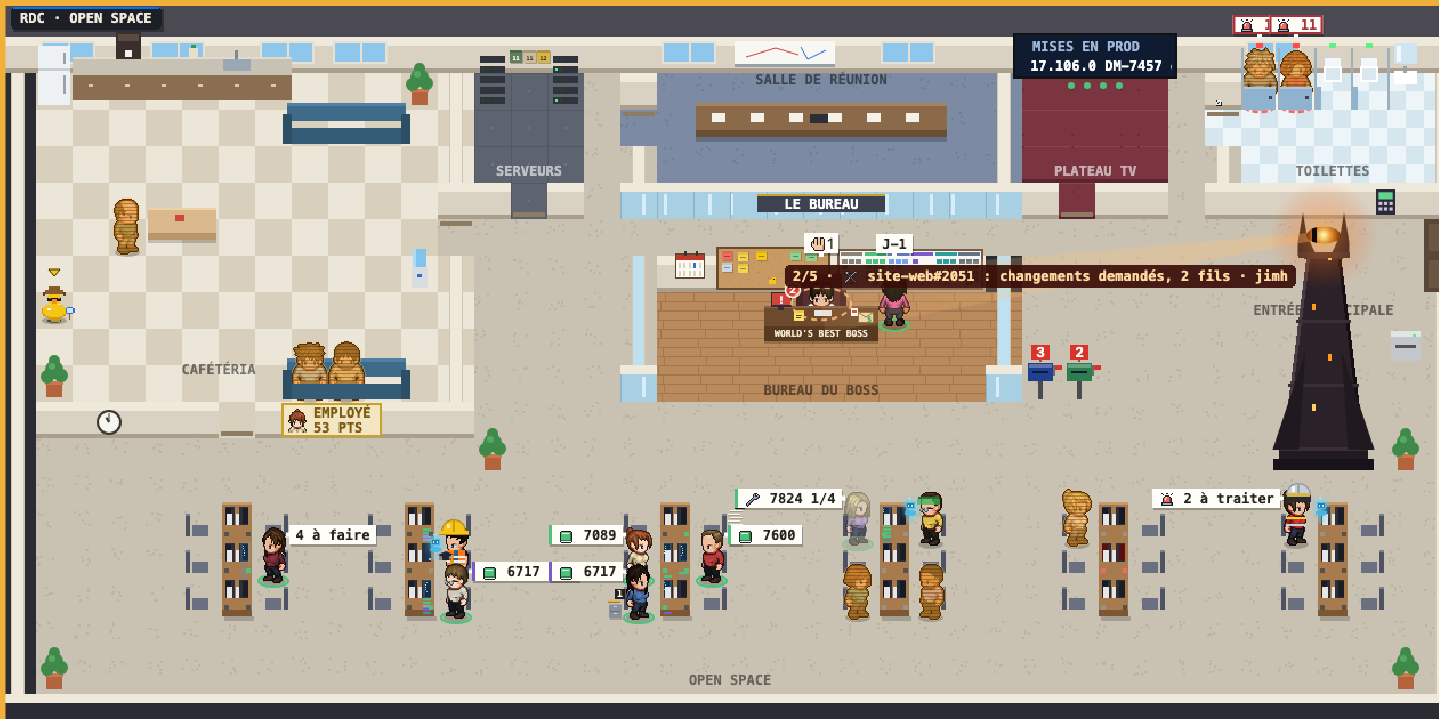
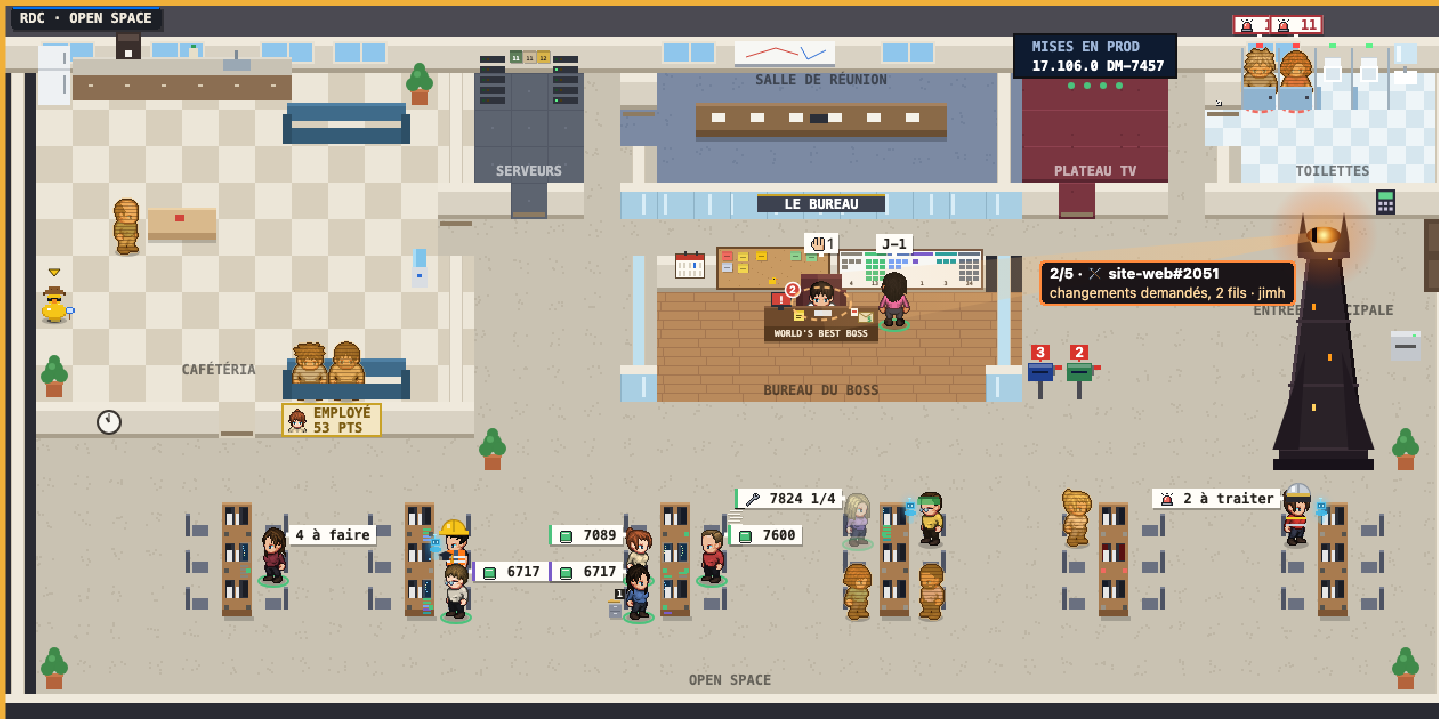
fix(oeil): l'étiquette de l'œil en carte de deux lignes, lisible sur le thème d'un pack (#301)
## 🎯 Quoi et pourquoi
Sur le pack euronews, l'étiquette de l'œil (12 px mono, brun sur brun,
une ligne) traversait le bureau du boss et se lisait mal.

## 🔧 Changements
- Carte de deux lignes sous l'œil : la cible en gras 13 px (rang dans la
ronde, icône, PR), le motif dessous en 12 px ; fond sombre, liseré
orange ; deux fois moins large, elle ne couvre plus le bureau du boss.
- Guide et capture `oeil.png`, CHANGELOG.

## 🧪 Tests
- [x] Tests JS 820/820

## 📸 Captures
![La tour et sa
carte](https://raw.githubusercontent.com/barberemi/pixel-bureau/fix/oeil-etiquette/guide/img/oeil.png)

## ✅ Avant de merger
- [x] Label « références visuelles »
- [ ] Après merge : `python3 tools/upgrade.py` (page)

🤖 Generated with [Claude Code](https://claude.com/claude-code)

---------

diff --git a/page/src/69-oeil.js b/page/src/69-oeil.js
@@ -133,10 +133,16 @@ function oeilOverlay(now){
   oeBeam(e.x,e.y,tx,ty,heat);oeEye(e.x,e.y,tx,ty,heat);
   if(heat>=1)oeFire(e.x,e.y-10,now);
   if(m<1)return;
-  ctx.font=`bold 12px ${FONT_MONO}`;const txt=(n>1?(k+1)+'/'+n+' · ':'')+g.ico+' '+g.txt, w=ctx.measureText(txt).width+14;
-  const x=Math.max(4,e.x-24-w), y=e.y+26; // sous l'œil, à gauche de la tour : le faisceau montre la cible
-  ctx.fillStyle='rgba(58,14,8,.92)';pixRect(ctx,x,y,w,20);ctx.fill();
-  ctx.fillStyle='#ffd9a0';ctx.textBaseline='middle';ctx.fillText(txt,x+7,y+11);ctx.textBaseline='alphabetic';
+  // l'étiquette, sous l'œil à gauche de la tour (le faisceau montre la cible) : une carte de deux lignes, lisible sur tous
+  // les thèmes : en gras la cible (rang dans la ronde, icône, PR), dessous le motif ; fond sombre, liseré orange
+  const i=g.txt.indexOf(' : '), l1=(n>1?(k+1)+'/'+n+' · ':'')+g.ico+' '+(i>0?g.txt.slice(0,i):g.txt), l2=i>0?g.txt.slice(i+3):'';
+  const f1=`bold 13px ${FONT_UI}`, f2=`12px ${FONT_UI}`;
+  ctx.font=f1;let w=ctx.measureText(l1).width;ctx.font=f2;if(l2)w=Math.max(w,ctx.measureText(l2).width);w=Math.ceil(w)+18;
+  const h=l2?40:24, x=Math.max(4,e.x-24-w), y=e.y+22;
+  ctx.fillStyle='rgba(18,12,16,.95)';pixRect(ctx,x,y,w,h);ctx.fill();ctx.strokeStyle='#ff8a3d';ctx.lineWidth=2;pixRect(ctx,x+1,y+1,w-2,h-2);ctx.stroke();
+  ctx.textBaseline='middle';ctx.font=f1;ctx.fillStyle='#ffffff';ctx.fillText(l1,x+9,y+12);
+  if(l2){ctx.font=f2;ctx.fillStyle='#ffd9a0';ctx.fillText(l2,x+9,y+29);}
+  ctx.textBaseline='alphabetic';
 }
 function oeilTip(){const l=oeRound(T);
   return !oeLive()?'L\'Œil : loin de son relevé, il ne regarde pas':l.length?'L\'Œil : '+plural(l.length,'chose t\'attend','choses t\'attendent')+' · '+l[0].ico+' '+l[0].txt+' · clic : la liste'

diff --git a/CHANGELOG.md b/CHANGELOG.md
@@ -32,6 +32,7 @@ Format : [Keep a Changelog](https://keepachangelog.com/fr/1.1.0/). Versions : `0
 
 ### Modifié
 
+- L'Œil : l'étiquette sous l'œil passe en carte de deux lignes (la cible en gras, le motif dessous), fond sombre et liseré orange, deux fois moins large : lisible sur le thème d'un pack et sans couvrir le bureau du boss.
 - L'Œil suit les règles de la revue et de « Corriger » : brouillons, PR sans activité depuis 30 jours et relectures pas prêtes (conflit, CI rouge) hors de la ronde ; « changements demandés » seulement si la review est plus récente que ton dernier commit ; fils sans les comptes extérieurs ni les fils périmés ; relectures demandées à toi seulement (pas à tes équipes), sans bot ni label `skip-auto-review`. Sa fiche passe en sections, la carte regardée encadrée ; un clic sur une carte y pose l'œil 10 s. « ✓ Vu » (rien n'est gardé dans Kronn) et la notification du Mac de l'Œil sont retirés.
 - Typographie (audit UX 2.1, 2.4, 2.5) : une échelle de sept tailles en jetons (`--fs-meta` 11 px à `--fs-pix` 24 px), plus de demi-pixel ni de 10 px (le mur Kanban passe à 11 px) ; deux familles, `--font-ui` et `--font-mono`, et `FONT_UI` / `FONT_MONO` dans le dessin du plan ; panneau des départs : les noms en police pixel 16 px, nette, le reste en monospace.
 - Étiquettes d'état (audit UX 3.7 et 3.9) : un seul gabarit (11 px gras, 0 × 6, ligne de 16 px), fond plein ou teinté à 20 %, pour les étiquettes du Kanban, du panneau des étages, des pages du boss, des PR, du Support et des tickets ; le panneau ne pose plus de style en ligne (classes `.note`, `.grp.first`), et le thème pixel perd son contournement en `!important`.

diff --git a/guide/fonctionnalites/36-oeil.md b/guide/fonctionnalites/36-oeil.md
@@ -17,7 +17,7 @@ Il fait sa ronde, la plus urgente d'abord, puis la plus ancienne :
 | 🔥 | Un service extérieur en alerte | le bandeau du plateau TV |
 | ✉ | Des mails utiles | la boîte aux lettres du compte |
 
-- Le faisceau va d'une cible à la suivante toutes les 4 secondes ; sous l'œil, une étiquette dit laquelle et pourquoi (« 2/5 · 🛠 site-web#2051 : changements demandés, 2 fils · jimh »).
+- Le faisceau va d'une cible à la suivante toutes les 4 secondes ; sous l'œil, une carte dit laquelle (« 2/5 · 🛠 site-web#2051 ») et pourquoi (« changements demandés, 2 fils · jimh »).
 - L'œil chauffe avec l'attente : orange au début, rouge, puis en flammes au-delà de 4 h.
 - Rien ne t'attend : l'œil se ferme.
 
